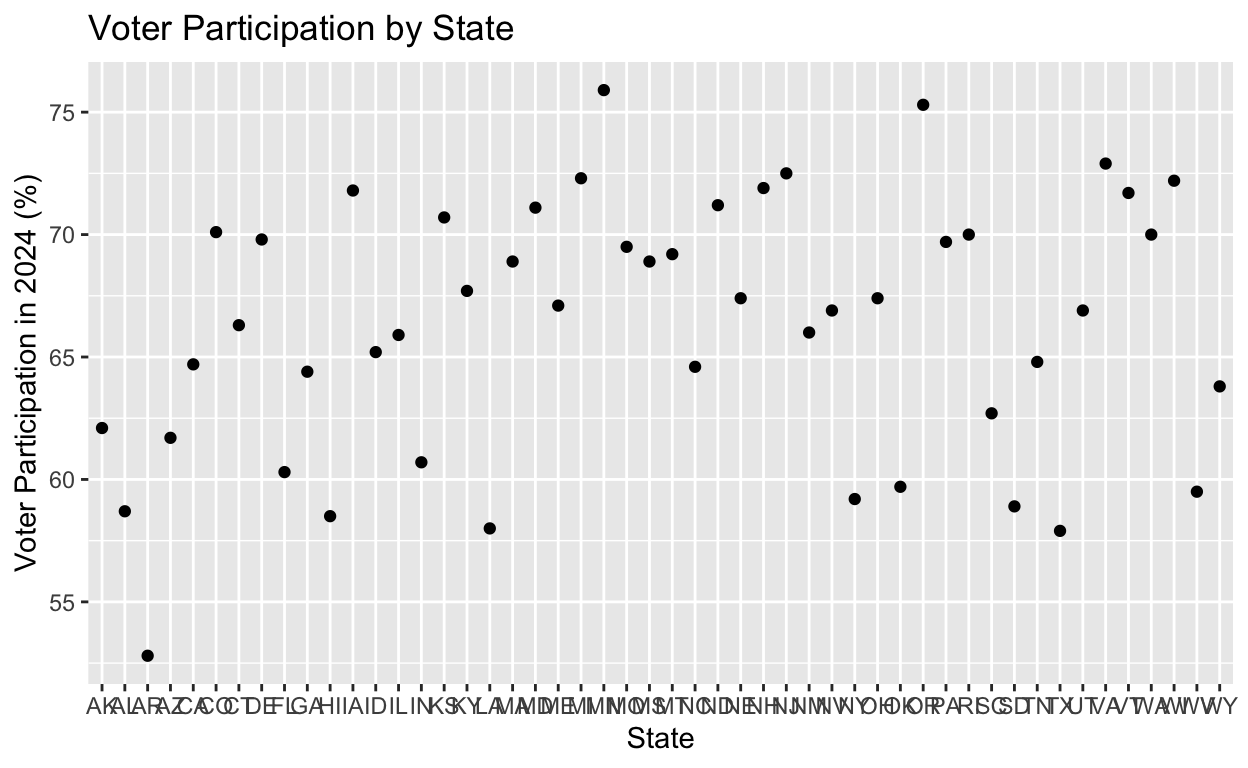
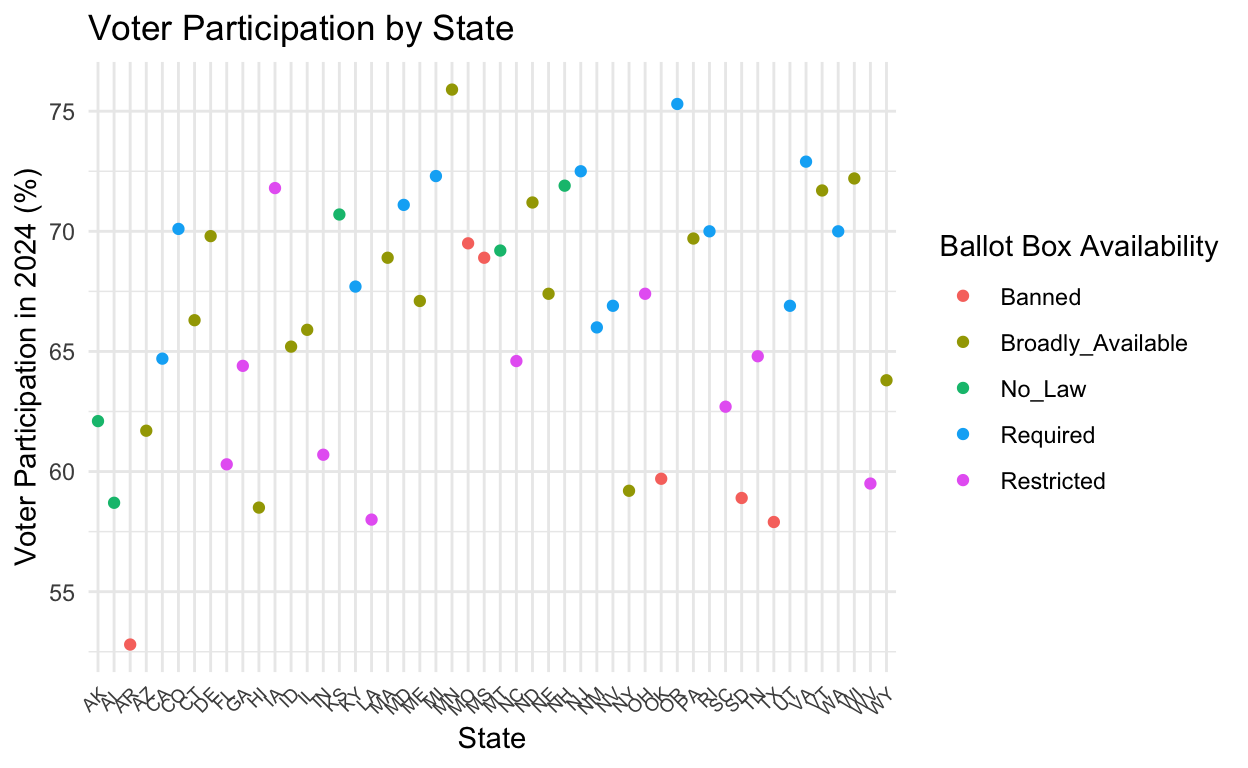
4/27 545

diff --git a/index.html b/index.html
@@ -1545,35 +1545,25 @@ code span.wa { color: #5e5e5e; font-style: italic; } /* Warning */
 
 <div class="d-article">
 <h2 id="introduction">Introduction</h2>
-<p>This project explores how voter accessibility can impact voter turnout, focusing specifically on ballot drop boxes. The research question is as follows, <strong>“Does increasing the availability of ballot drop boxes increase voter participation in elections?”</strong> My hypothesis is that <strong>if ballot drop boxes are more available for voters, then there will by higher voter turnout.</strong> The null hypothesis is that the availability of ballot drop boxes does not affect voter turnout.
-This research is important in determining how to increase voter turnout. Less than two-thirds of eligible Americans voted in 2024, a number that can be greatly increased. Increasing voter turnout allows for American government to become more democratic, as more people are using their voice. If ballot drop boxes cause more people to vote, then they should be used across the country.</p>
+<p>This project explores how voter accessibility can impact voter turnout, focusing specifically on ballot drop boxes. The research question is as follows, <strong>“Does increasing the availability of ballot drop boxes increase voter participation in elections?”</strong> My hypothesis is that <strong>if ballot drop boxes are more available for voters, then there will by higher voter turnout.</strong> The null hypothesis is that the availability of ballot drop boxes does not affect voter turnout.</p>
+<p>Ballot drop boxes are important to look at because they are easy for voters to use. Voters can obtain an absentee ballot, commonly through mail, and then drop it in a ballot drop box without ever stepping foot in a polling location. This is all it takes to vote with a ballot drop box.</p>
+<p>This research is important in determining how to increase voter turnout. Less than two-thirds of eligible Americans voted in 2024, a number that can be greatly increased. Increasing voter turnout allows for American government to become more democratic, as more people are using their voice. If ballot drop boxes cause more people to vote, then they should be used across the country.</p>
 <h2 id="data">Data</h2>
-<p>The predictive variable is state laws regarding ballot drop boxes. States can either require ballot drop boxes, allow them but not require them, have no law on drop boxes, restrict the use of ballot drop boxes, or ban their use altogether. These will be the categories in which the variable is organized. The outcome variable is in voter turnout. Voter turnout is measured by state. Voter turnout is the proportion of eligible voter who actually voted in the election.
+<p>The predictive variable is state laws regarding ballot drop boxes. States can either require ballot drop boxes, allow them but not require them, have no law on drop boxes, restrict the use of ballot drop boxes, or ban their use altogether. These will be the categories in which the variable is organized. The data for the predictive variable and the categories is from the Movement Advancement Project. The outcome variable is in voter turnout. Voter turnout is measured by state. Voter turnout is the proportion of eligible voter who actually voted in the election.
 If states that require ballot drop boxes have higher voter turnout, then my hypothesis will be supported. However, if states with more restrictive use on ballot drop boxes have higher voter turnout, or there is no correlation between ballot drop boxes and voter turnout, then my hypothesis will be disproved. Mathematically, the hypothesis will be tested at a 95% confidence interval. Therefore, I will calculate the p-value, and if it is less than 0.05, then the null hypothesis will be rejected.</p>
 <div class="layout-chunk" data-layout="l-body">
 
 </div>
 <div class="layout-chunk" data-layout="l-body">
-<pre><code>Rows: 50
-Columns: 3
-$ State                    &lt;chr&gt; &quot;AL&quot;, &quot;AK&quot;, &quot;AZ&quot;, &quot;AR&quot;, &quot;CA&quot;, &quot;CO&quot;,…
-$ Ballot_Box_Law           &lt;chr&gt; &quot;No_Law&quot;, &quot;No_Law&quot;, &quot;Broadly_Availa…
-$ Voter_Participation_2024 &lt;dbl&gt; 58.7, 62.1, 61.7, 52.8, 64.7, 70.1,…</code></pre>
+
 </div>
 <div class="layout-chunk" data-layout="l-body">
 <p><img src="index_files/figure-html5/unnamed-chunk-3-1.png" alt="" width="624" /></p>
 </div>
-<p>This graph displays the different rates of voter participation per state. It displays how much voter participation can vary, with some states being close to 80% participation and some being close to 50% participation. We are looking to organize this according to ballot drop box availability, to see the impact it may have on voter participation.</p>
+<p>This graph displays the different rates of voter participation per state, and is color coded by ballot drop box availability. It displays how much voter participation can vary, with some states being close to 80% participation and some being close to 50% participation. We are looking to organize this according to ballot drop box availability, to see the impact it may have on voter participation.</p>
 <h2 id="results">Results</h2>
 <div class="layout-chunk" data-layout="l-body">
-<pre><code># A tibble: 5 × 2
-  Ballot_Box_Law    avg_turnout
-  &lt;chr&gt;                   &lt;dbl&gt;
-1 Banned                   61.3
-2 Broadly_Available        67.2
-3 No_Law                   66.5
-4 Required                 69.7
-5 Restricted               63.4</code></pre>
+
 </div>
 <div class="layout-chunk" data-layout="l-body">
 <p><img src="index_files/figure-html5/unnamed-chunk-5-1.png" alt="" width="624" /></p>
@@ -1592,25 +1582,25 @@ $ Voter_Participation_2024 &lt;dbl&gt; 58.7, 62.1, 61.7, 52.8, 64.7, 70.1,…</c
 <td style="text-align: right;">61.28</td>
 </tr>
 <tr class="even">
-<td style="text-align: left;">Broadly_Available</td>
-<td style="text-align: right;">67.16</td>
+<td style="text-align: left;">Restricted</td>
+<td style="text-align: right;">63.42</td>
 </tr>
 <tr class="odd">
-<td style="text-align: left;">No_Law</td>
+<td style="text-align: left;">No Law</td>
 <td style="text-align: right;">66.52</td>
 </tr>
 <tr class="even">
-<td style="text-align: left;">Required</td>
-<td style="text-align: right;">69.72</td>
+<td style="text-align: left;">Broadly Available</td>
+<td style="text-align: right;">67.16</td>
 </tr>
 <tr class="odd">
-<td style="text-align: left;">Restricted</td>
-<td style="text-align: right;">63.42</td>
+<td style="text-align: left;">Required</td>
+<td style="text-align: right;">69.72</td>
 </tr>
 </tbody>
 </table>
 </div>
-<p>This data shows a somewhat small, but noticeable effect of ballot box availability on voter turnout. The more supportive a law is regarding ballot boxes, the higher voter turnout is. In states where ballot boxes are banned, voter turnout is about 61.3%, while in states where ballot boxes are required, voter turnout is at 69.7%. The rest of the availability options follow this trend as well, with restricted ballot boxes having the second lowest turnout, no law being in the middle, and broadly available having the second highest turnout.</p>
+<p>This data displays the average voter turnout in a state based on their availability of ballot drop boxes. It shows a somewhat small, but noticeable effect of ballot box availability on voter turnout. The more supportive a law is regarding ballot boxes, the higher voter turnout is. In states where ballot boxes are banned, voter turnout is about 61.3%, while in states where ballot boxes are required, voter turnout is at 69.7%. The rest of the availability options follow this trend as well, with restricted ballot boxes having the second lowest turnout, no law being in the middle, and broadly available having the second highest turnout.</p>
 <div class="layout-chunk" data-layout="l-body">
 <pre><code>
 Call:
@@ -1679,8 +1669,15 @@ Coefficients:
 </tbody>
 </table>
 </div>
-<p>The regression analysis works with ballot boxes being banned as the intercept. When ballot boxes are banned, the average voter turnout per state is 61.28%. This result is statistically significant at 95% confidence as the p-value is between 0 and 0.001. The coefficient for ballot boxes being broadly available is 5.87. This means that on average, in states where ballot drop boxes are available, voter turnout is about 5.87 percentage points higher than in states where ballot drop boxes are banned. This result is statistically significant as the p-value is less than 0.05. The coefficient for states with no ballot box law is 5.24. This means on average their voter turnout is 5.23 percentage points higher than states where ballot drop boxes are banned. This is not statistically significant however as the p-value is greater than 0.05. The coefficient for states where ballot drop boxes are required is 8.44. This means that states where ballot drop boxes are required have on average 8.44 percentage point higher turnout than states where ballot drop boxes are banned. This result is statistically significant as the p-value is less than 0.05. Finally, the coefficient for ballot drop boxes being restricted is 2.14. This means that on average, states that restrict ballot drop box use have on average 2.14 percentage point higher voter turnout than states where ballot drop boxes are banned.</p>
-<p>It makes sense that the regression found no statistical significance for no ballot box law and ballot boxes being restricted. When relative to ballot boxes being banned, ballot boxes being restricted is not much different. Neither do much to increase voter accessibility, and the results relative to one another should not be that different. So when it comes to the null hypothesis in this instance, that restricting ballot drop boxes do not make a difference in voter turnout relative to banning ballot drop boxes, it cannot be rejected. Additionally, the null hypothesis for no ballot box law mathematically cannot be rejected, and it should not be. Just because a state does not have a law regarding ballot drop boxes does not mean that they exist in the state. If some of these states do not have drop boxes, then there is no difference between not having a law, and having a law that restricts the drop boxes. Therefore, the null hypothesis, that there is no difference in voter turnout between states that do not have a ballot drop box law and states that ban there use, should not be rejected.</p>
+<p>The regression analysis works with ballot boxes being banned as the intercept. Statistical significance is being tested with an alpha = 0.05.When ballot boxes are banned, the average voter turnout per state is 61.28%. This result is statistically significant as the p-value is less than 0.05. The coefficient for ballot boxes being broadly available is 5.87. This means that on average, in states where ballot drop boxes are available, voter turnout is about 5.87 percentage points higher than in states where ballot drop boxes are banned. This result is statistically significant as the p-value is less than 0.05. Additionally, the evidence to support this relationship is strong as the standard error is much less than the coefficient. The coefficient for states with no ballot box law is 5.24. This means on average their voter turnout is 5.23 percentage points higher than states where ballot drop boxes are banned. This is not statistically significant however as the p-value is greater than 0.05. However, the evidence to support this relationship is strong, with the standard error being significantly less than the coefficient. The coefficient for states where ballot drop boxes are required is 8.44. This means that states where ballot drop boxes are required have on average 8.44 percentage point higher turnout than states where ballot drop boxes are banned. This result is statistically significant as the p-value is less than 0.05. There is also strong evidence that the relationship exists as the standard error is much less than the coefficient. Finally, the coefficient for ballot drop boxes being restricted is 2.14. This means that on average, states that restrict ballot drop box use have on average 2.14 percentage point higher voter turnout than states where ballot drop boxes are banned. The evidence to support this relationship is also uncertain, as the standard error is similar to the coefficient.</p>
+<p>It makes sense that the regression found no statistical significance for no ballot box law and ballot boxes being restricted. When relative to ballot boxes being banned, ballot boxes being restricted is not much different. Neither do much to increase voter accessibility, and the results relative to one another should not be that different. So when it comes to the null hypothesis in this instance, that restricting ballot drop boxes do not make a difference in voter turnout relative to banning ballot drop boxes, it cannot be rejected. It also makes sense in this case that the evidence to support the relationship is uncertain based on the standard error, for these same reasons. Additionally, the null hypothesis for no ballot box law mathematically cannot be rejected, and it should not be. Just because a state does not have a law regarding ballot drop boxes does not mean that they exist in the state. If some of these states do not have drop boxes, then there is no difference between not having a law, and having a law that restricts the drop boxes. Therefore, the null hypothesis, that there is no difference in voter turnout between states that do not have a ballot drop box law and states that ban there use, should not be rejected. However, there is strong evidence to support the relationship with low standard error. This makes sense as the mean voter turnout for these states is definitely higher compared to states where ballot drop boxes are banned.</p>
+<p>The relationship overall should be interpreted causally. It cannot be mathematically proved that states with no law regarding ballot drop boxes or restricted ballot drop boxes have significantly higher voter turnout than states where ballot drop boxes are banned. However, it is mathematically strong that states where ballot drop boxes are broadly available or required have a significantly higher voter turnout rate than states where ballot drop boxes are banned. Thus supporting ballot drop boxes causes higher voter turnout, while not supporting them leads to lower voter turnout.</p>
+<h2 id="conclusion">Conclusion</h2>
+<h3 id="results-and-assessment">Results and Assessment</h3>
+<p>Average voter turnout directly reflected state laws regarding ballot drop box availability. When ballot drop boxes are required, it results in the highest mean voter turnout at 69.72%. This is followed by when drop boxes are broadly available, with mean voter turnout at 67.16%, then no law regarding drop boxes at 66.52%. States where drop boxes are restricted have a mean voter turnout of 63.42%, and finally is states where ballot drop boxes are banned, with mean voter turnout is 61.28%. This shows a clear relationship between ballot drop box availability and voter turnout, supporting my hypothesis. While the regression creates uncertainty regarding states where ballot drop boxes are restricted, or there is no law regarding them, this is relative to states where ballot drop boxes are banned. The regression also shows strong support for the relationship between states where drop boxes are required or broadly available and higher voter turnout.</p>
+<h3 id="limitations">Limitations</h3>
+<p>It is important to note some limitations to the findings. First, this data is only from one year, 2024. To truly see the impact of ballot drop boxes, having data from other years as well would be helpful. We could see how a state’s voter turnout changes over time relative to ballot drop box availability. Going along with that, there are only 50 data points. This is not a large sample size, and looking at other years or other countries could help increase sample size and thus reliability. States may have also had something affect their turnout in 2024, like weather, that was not present in other years, a possible confounding variable</p>
+<p>There are other possible confounding that need to be acknowledged as well. First, conservatives typically are less likely to support the use of ballot drop boxes. Meanwhile, liberals are more likely to support the use of ballot drop boxes. These associations of politics can be affecting voter turnout rates. Additionally, states that limit the use of ballot drop boxes may have other measures in place that limit voting, like voter id laws or no mail in voting. On the other hand, states that promote the use of ballot drop boxes might do other things to promote voting like early voting or mail in voting.</p>
 <h2 id="code">Code</h2>
 <div class="layout-chunk" data-layout="l-body">
 <div class="sourceCode">
@@ -1738,22 +1735,25 @@ Coefficients:
 <span><span class='st'>WI Broadly_Available 72.2</span></span>
 <span><span class='st'>WY Broadly_Available 63.8</span></span>
 <span><span class='st'>"</span>, header <span class='op'>=</span> <span class='cn'>TRUE</span><span class='op'>)</span> </span>
-<span><span class='fu'><a href='https://pillar.r-lib.org/reference/glimpse.html'>glimpse</a></span><span class='op'>(</span><span class='va'>ballot</span><span class='op'>)</span></span>
 <span><span class='fu'><a href='https://ggplot2.tidyverse.org/reference/ggplot.html'>ggplot</a></span><span class='op'>(</span><span class='va'>ballot</span>, <span class='fu'><a href='https://ggplot2.tidyverse.org/reference/aes.html'>aes</a></span><span class='op'>(</span>x <span class='op'>=</span> <span class='va'>State</span>,</span>
-<span>                   y <span class='op'>=</span> <span class='va'>Voter_Participation_2024</span><span class='op'>)</span><span class='op'>)</span> <span class='op'>+</span></span>
+<span>                   y <span class='op'>=</span> <span class='va'>Voter_Participation_2024</span>,</span>
+<span>                   color <span class='op'>=</span> <span class='va'>Ballot_Box_Law</span><span class='op'>)</span><span class='op'>)</span> <span class='op'>+</span></span>
 <span>  <span class='fu'><a href='https://ggplot2.tidyverse.org/reference/geom_point.html'>geom_point</a></span><span class='op'>(</span><span class='op'>)</span> <span class='op'>+</span></span>
 <span>  <span class='fu'><a href='https://ggplot2.tidyverse.org/reference/labs.html'>labs</a></span><span class='op'>(</span>title <span class='op'>=</span> <span class='st'>"Voter Participation by State"</span>,</span>
 <span>       x <span class='op'>=</span> <span class='st'>"State"</span>,</span>
-<span>       y <span class='op'>=</span> <span class='st'>"Voter Participation in 2024 (%)"</span></span>
-<span>  <span class='op'>)</span></span>
+<span>       y <span class='op'>=</span> <span class='st'>"Voter Participation in 2024 (%)"</span>,</span>
+<span>       color <span class='op'>=</span> <span class='st'>"Ballot Box Availability"</span><span class='op'>)</span><span class='op'>+</span></span>
+<span>  <span class='fu'><a href='https://ggplot2.tidyverse.org/reference/ggtheme.html'>theme_minimal</a></span><span class='op'>(</span><span class='op'>)</span> <span class='op'>+</span></span>
+<span>  <span class='fu'><a href='https://ggplot2.tidyverse.org/reference/theme.html'>theme</a></span><span class='op'>(</span>axis.text.x <span class='op'>=</span> <span class='fu'><a href='https://ggplot2.tidyverse.org/reference/element.html'>element_text</a></span><span class='op'>(</span>angle <span class='op'>=</span> <span class='fl'>45</span>, hjust <span class='op'>=</span> <span class='fl'>1</span>, size <span class='op'>=</span> <span class='fl'>7</span><span class='op'>)</span><span class='op'>)</span></span>
 <span><span class='va'>ballot_summary</span> <span class='op'>&lt;-</span> <span class='va'>ballot</span> <span class='op'>|&gt;</span></span>
 <span>  <span class='fu'><a href='https://dplyr.tidyverse.org/reference/group_by.html'>group_by</a></span><span class='op'>(</span><span class='va'>Ballot_Box_Law</span><span class='op'>)</span> <span class='op'>|&gt;</span></span>
 <span>  <span class='fu'><a href='https://dplyr.tidyverse.org/reference/summarise.html'>summarize</a></span><span class='op'>(</span></span>
 <span>    avg_turnout <span class='op'>=</span> <span class='fu'><a href='https://rdrr.io/r/base/mean.html'>mean</a></span><span class='op'>(</span><span class='va'>Voter_Participation_2024</span>, na.rm <span class='op'>=</span> <span class='cn'>TRUE</span><span class='op'>)</span>,</span>
 <span>    .groups <span class='op'>=</span> <span class='st'>"drop"</span></span>
-<span>  <span class='op'>)</span></span>
-<span></span>
-<span><span class='va'>ballot_summary</span></span>
+<span>  <span class='op'>)</span> <span class='op'>|&gt;</span></span>
+<span>  <span class='fu'><a href='https://dplyr.tidyverse.org/reference/mutate.html'>mutate</a></span><span class='op'>(</span>Ballot_Box_Law <span class='op'>=</span> <span class='fu'><a href='https://dplyr.tidyverse.org/reference/recode.html'>recode</a></span><span class='op'>(</span><span class='va'>Ballot_Box_Law</span>,</span>
+<span>                                 <span class='st'>"No_Law"</span> <span class='op'>=</span> <span class='st'>"No Law"</span>,</span>
+<span>                                 <span class='st'>"Broadly_Available"</span> <span class='op'>=</span> <span class='st'>"Broadly Available"</span><span class='op'>)</span><span class='op'>)</span></span>
 <span></span>
 <span><span class='va'>Ballot_Plot</span> <span class='op'>&lt;-</span> <span class='va'>ballot_summary</span> <span class='op'>|&gt;</span></span>
 <span>  <span class='fu'><a href='https://ggplot2.tidyverse.org/reference/ggplot.html'>ggplot</a></span><span class='op'>(</span>mapping <span class='op'>=</span> <span class='fu'><a href='https://ggplot2.tidyverse.org/reference/aes.html'>aes</a></span><span class='op'>(</span>x <span class='op'>=</span> <span class='fu'><a href='https://forcats.tidyverse.org/reference/fct_reorder.html'>fct_reorder</a></span><span class='op'>(</span><span class='va'>Ballot_Box_Law</span>, <span class='va'>avg_turnout</span><span class='op'>)</span>,</span>
@@ -1764,6 +1764,7 @@ Coefficients:
 <span>       title <span class='op'>=</span> <span class='st'>"How Ballot Box Laws Effect Voter Turnout"</span><span class='op'>)</span></span>
 <span><span class='va'>Ballot_Plot</span></span>
 <span><span class='va'>ballot_summary_table</span> <span class='op'>&lt;-</span> <span class='va'>ballot_summary</span> <span class='op'>|&gt;</span></span>
+<span>  <span class='fu'><a href='https://dplyr.tidyverse.org/reference/arrange.html'>arrange</a></span><span class='op'>(</span><span class='va'>avg_turnout</span><span class='op'>)</span> <span class='op'>|&gt;</span></span>
 <span>  <span class='fu'><a href='https://dplyr.tidyverse.org/reference/rename.html'>rename</a></span><span class='op'>(</span><span class='st'>"Ballot Box Availability"</span> <span class='op'>=</span> <span class='va'>Ballot_Box_Law</span>,</span>
 <span>         <span class='st'>"Average Voter Turnout"</span> <span class='op'>=</span> <span class='va'>avg_turnout</span><span class='op'>)</span></span>
 <span></span>
@@ -1776,7 +1777,7 @@ Coefficients:
 <span>  <span class='fu'>knitr</span><span class='fu'>::</span><span class='fu'><a href='https://rdrr.io/pkg/knitr/man/kable.html'>kable</a></span><span class='op'>(</span>digits <span class='op'>=</span> <span class='fl'>3</span><span class='op'>)</span></span></code></pre>
 </div>
 </div>
-<div class="sourceCode" id="cb4"><pre class="sourceCode r distill-force-highlighting-css"><code class="sourceCode r"></code></pre></div>
+<div class="sourceCode" id="cb2"><pre class="sourceCode r distill-force-highlighting-css"><code class="sourceCode r"></code></pre></div>
 <!--radix_placeholder_article_footer-->
 <!--/radix_placeholder_article_footer-->
 </div>
